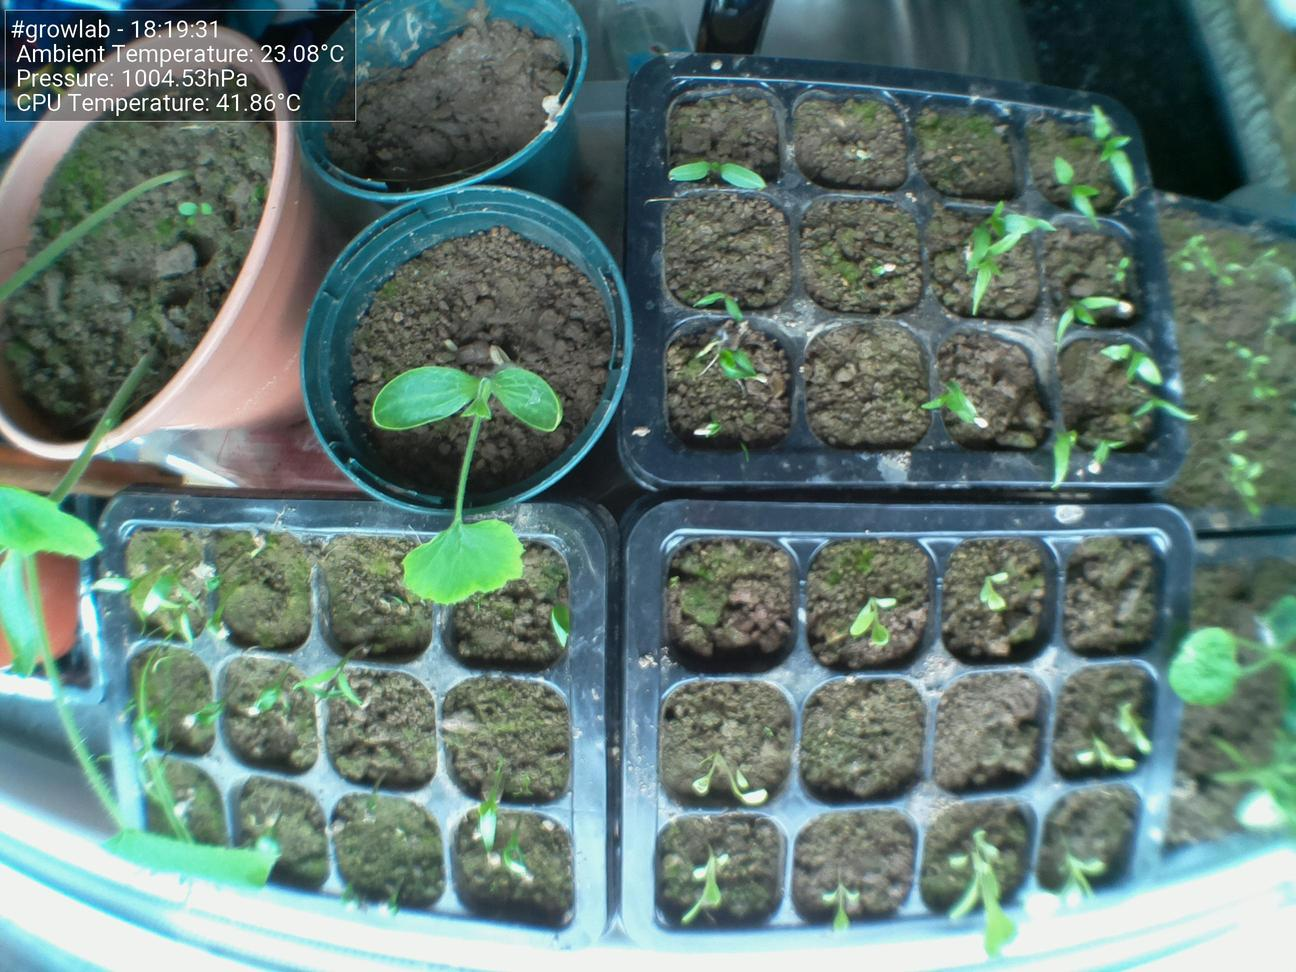
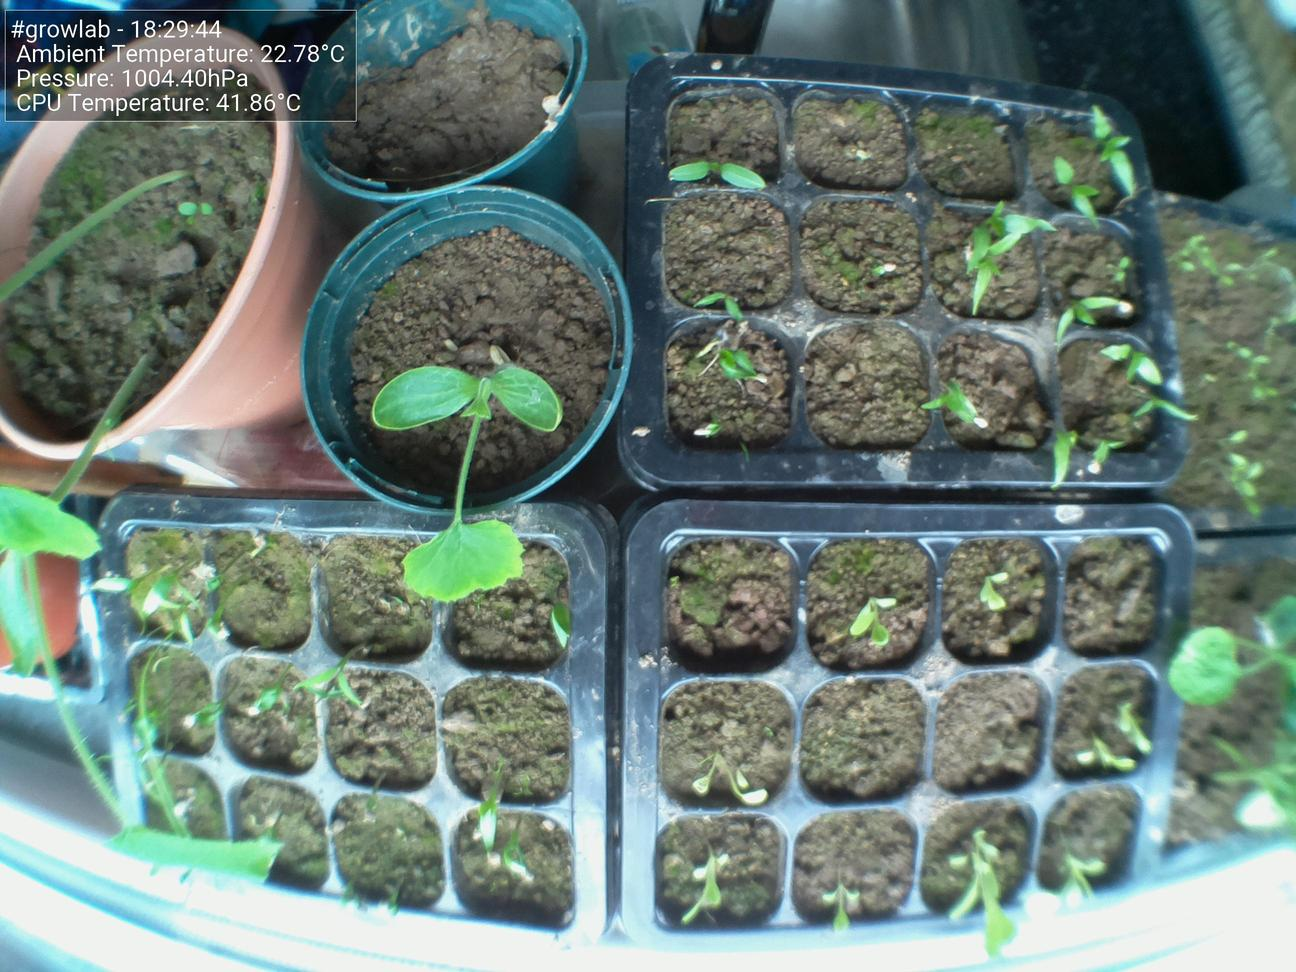
Update images at Tue 10 May 18:29:50 BST 2022

diff --git a/docs/index.html b/docs/index.html
@@ -44,7 +44,7 @@
                         <tbody>
                             <tr>
                                 <td>Time</td>
-                                <td>18:19:31</td>
+                                <td>18:29:44</td>
                             </tr>
                             <tr>
                                 <td>CPU Temp</td>
@@ -52,7 +52,7 @@
                             </tr>
                             <tr>
                                 <td>Ambient Temperature</td>
-                                <td>23.08°C</td>
+                                <td>22.78°C</td>
                             </tr>
                             <tr>
                                 <td>Humidity</td>
@@ -60,7 +60,7 @@
                             </tr>
                             <tr>
                                 <td>Pressure</td>
-                                <td>1004.53hPa</td>
+                                <td>1004.40hPa</td>
                             </tr>
                         </tbody>
                     </table>
@@ -68,7 +68,7 @@
 
                 <h5>Latest image</h5>
                 <div style="width: 85%;">
-                            <img class="figure-img img-fluid rounded" src="./preview.jpg?uid=1652203177.047041">
+                            <img class="figure-img img-fluid rounded" src="./preview.jpg?uid=1652203790.5311186">
                 </div>
             </div>
         </div>
